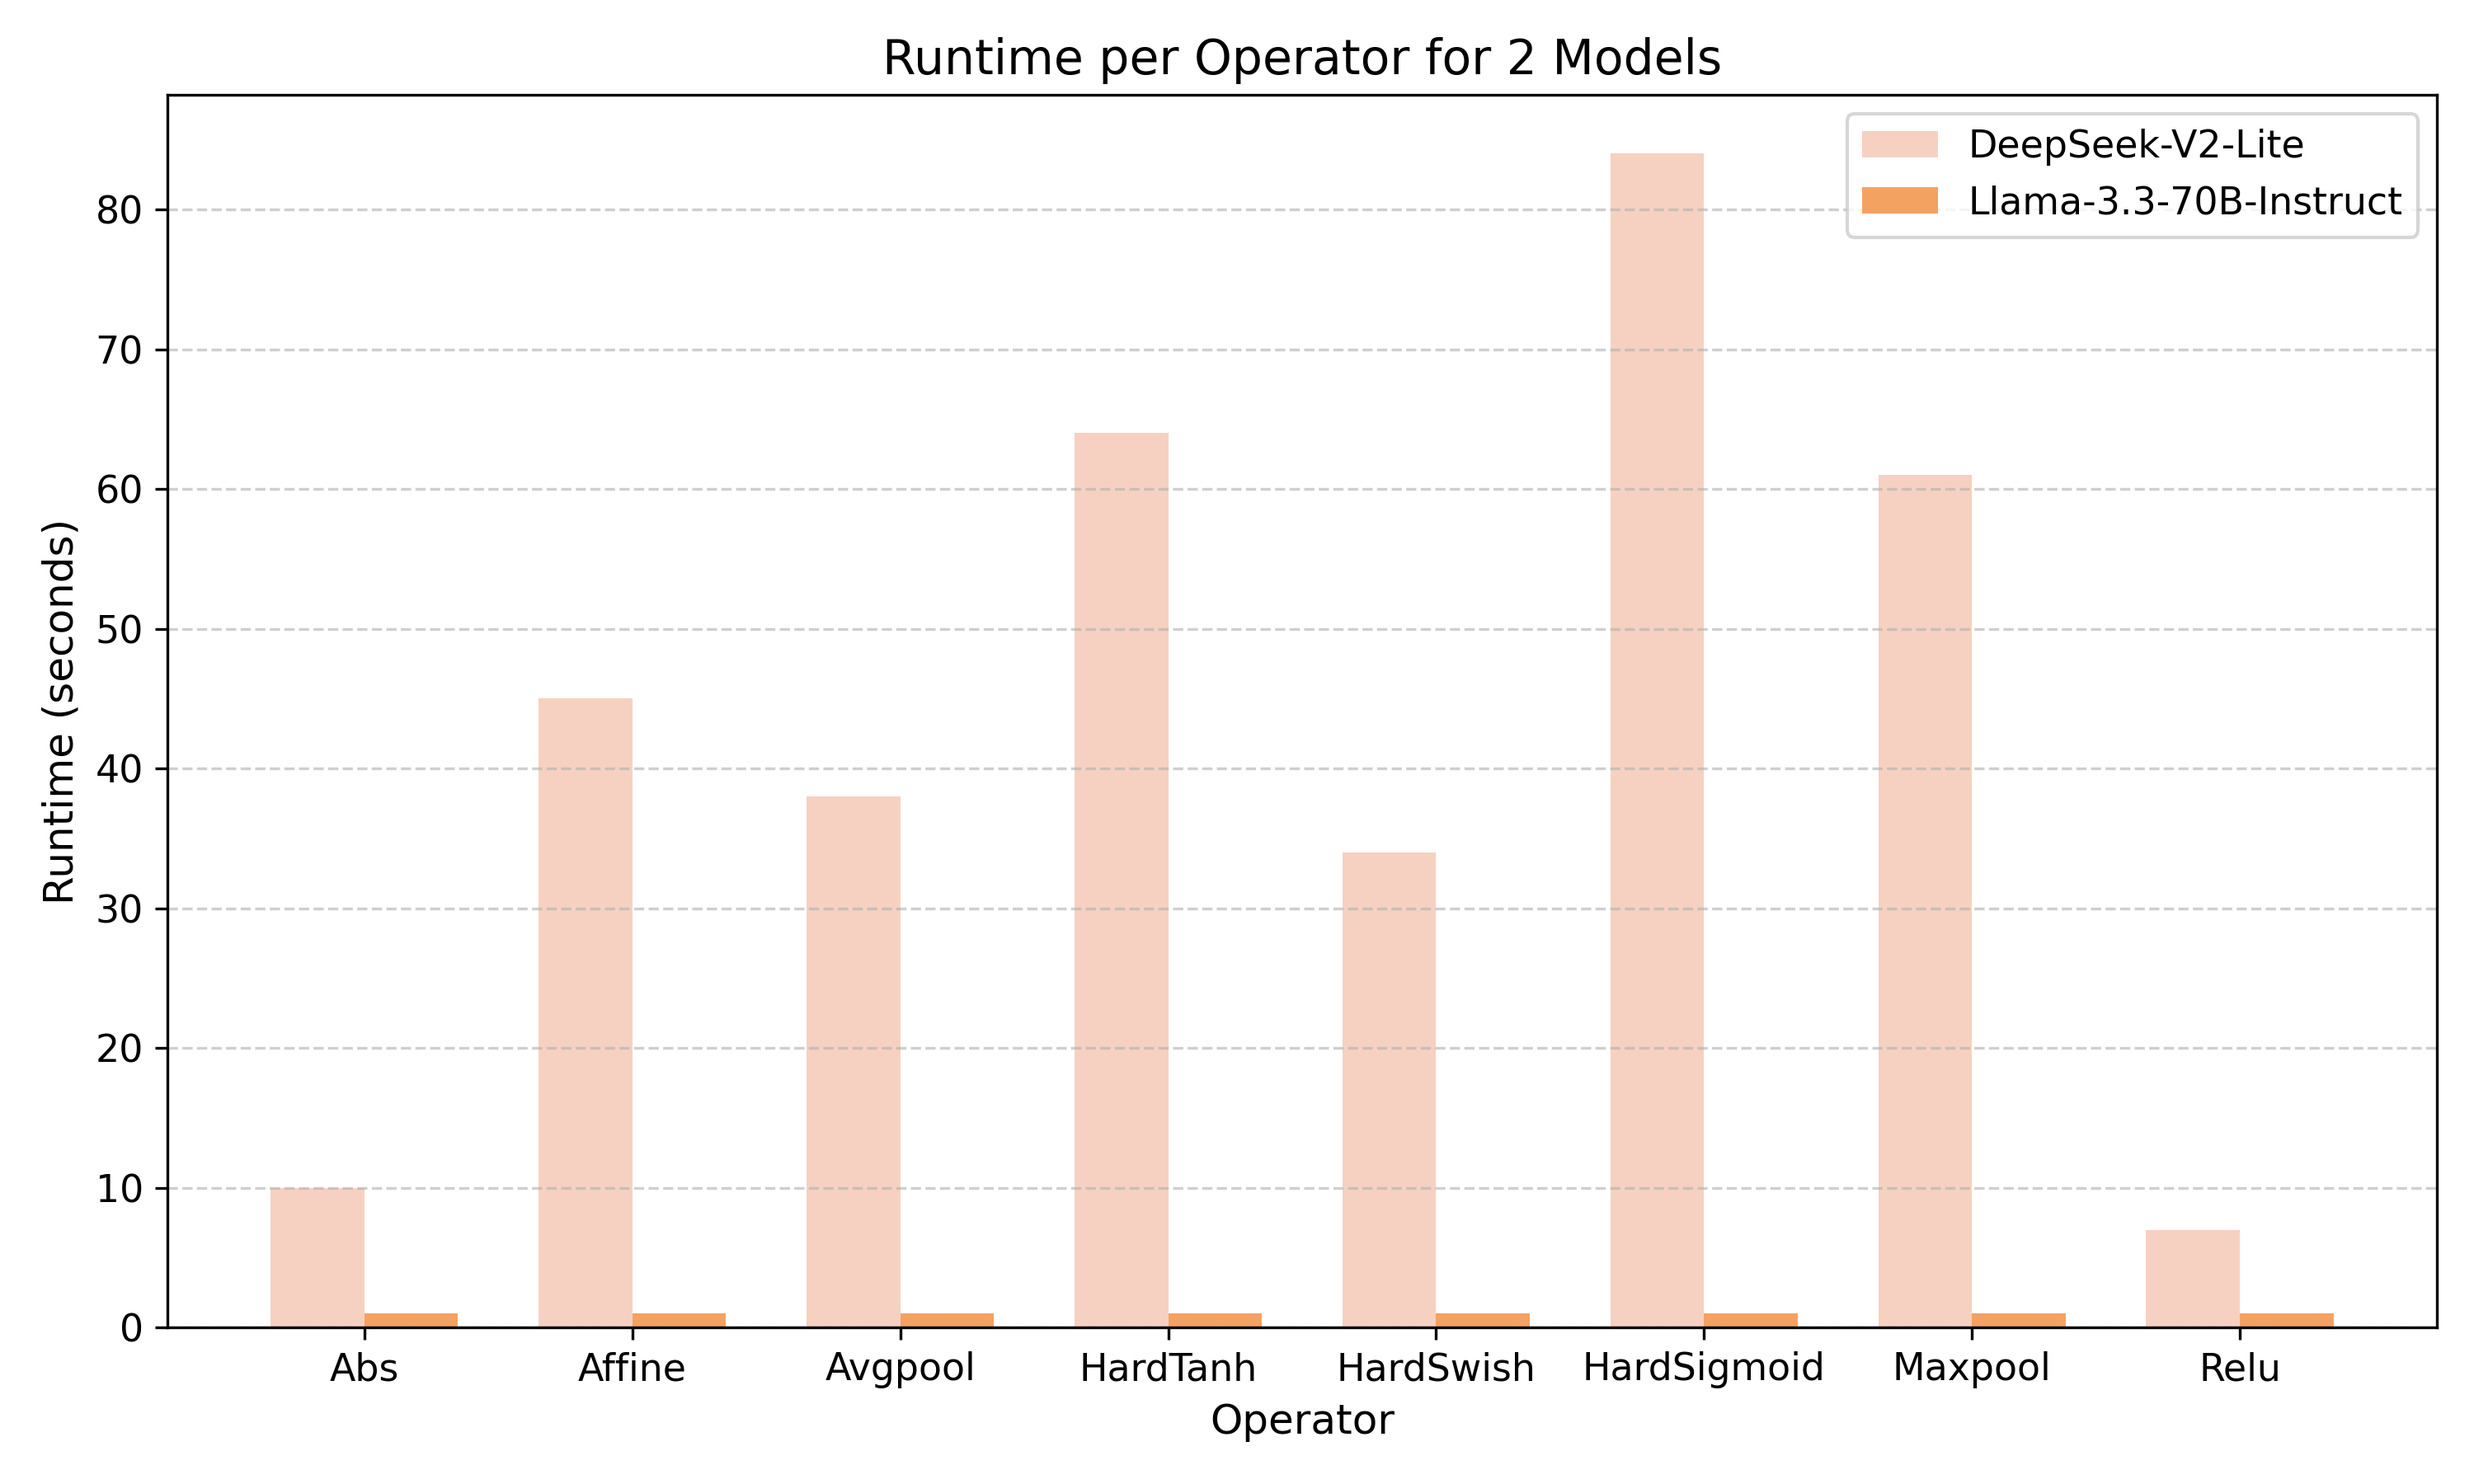
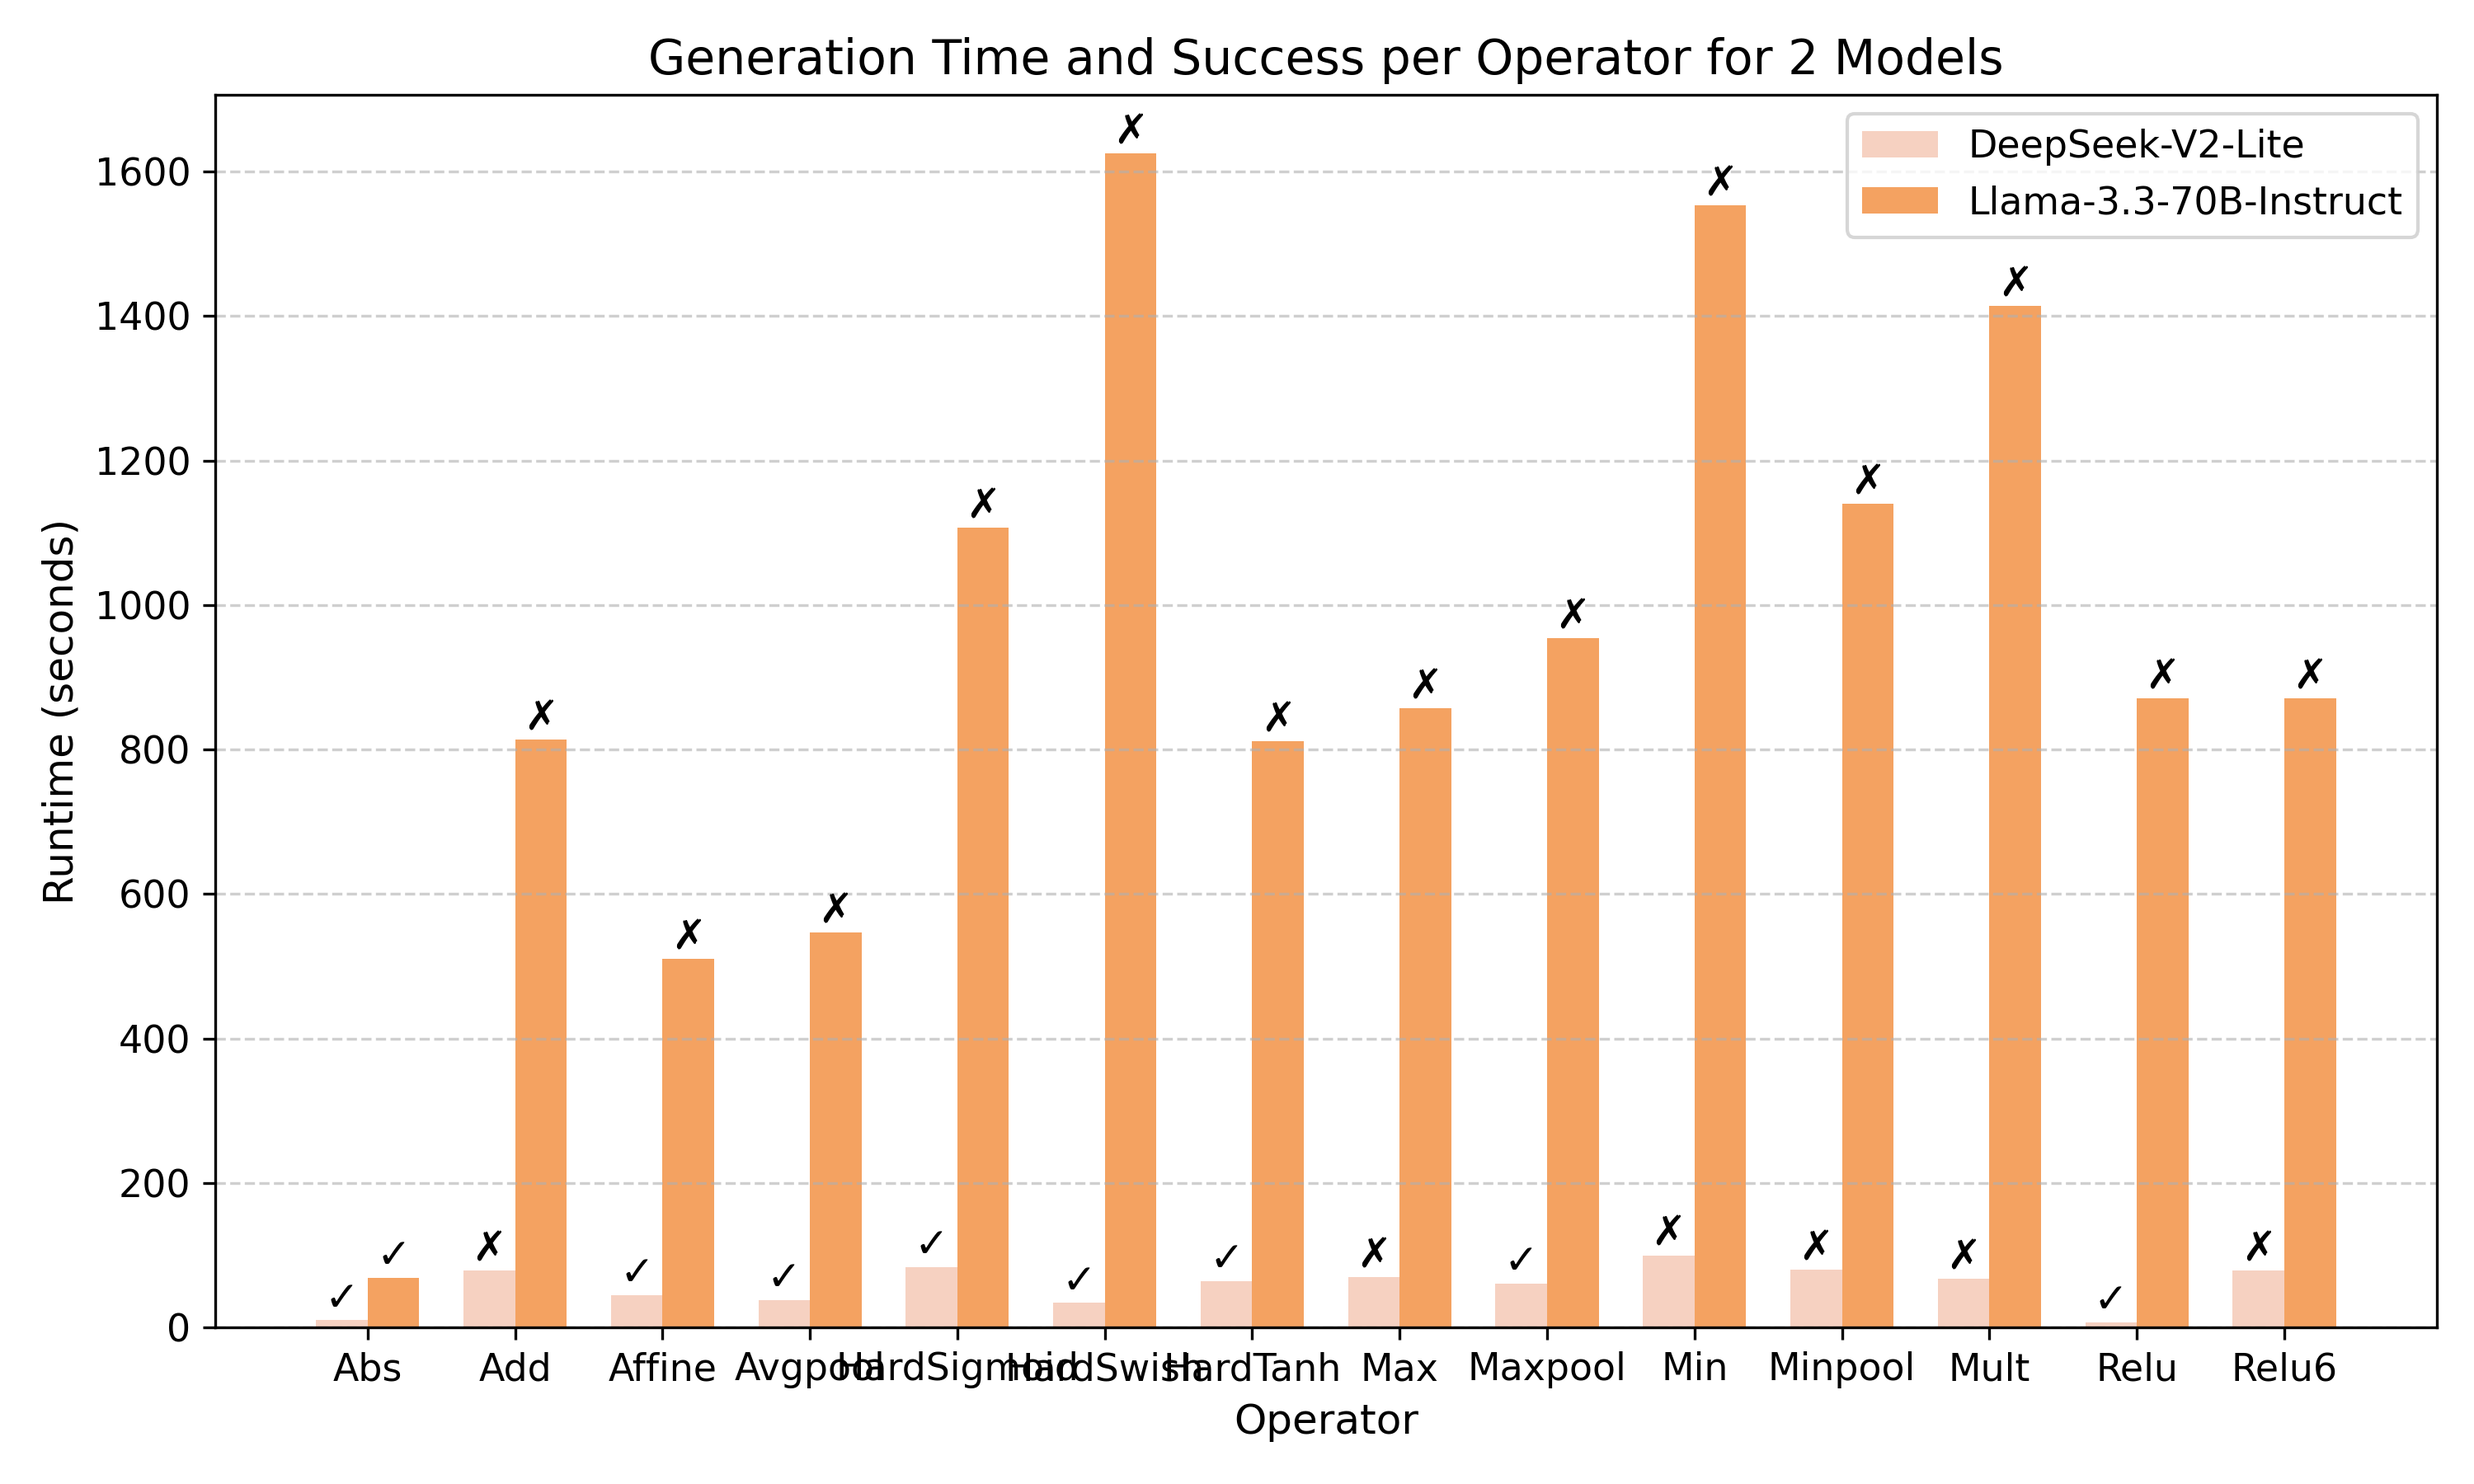
tables

Changed region(s): [[0.031, 0.0622, 0.961, 0.9644], [0.248, 0.0311, 0.713, 0.0622], [0.744, 0.0311, 0.806, 0.0622]]

diff --git a/tables/gen_time.py b/tables/gen_time.py
@@ -7,6 +7,7 @@ models = [
     "Llama-3.3-70B-Instruct",
     ]
 
+'''
 operators = [
     "Abs",
     "Affine",
@@ -22,8 +23,43 @@ operators = [
 # Runtime data (example values for  operators ×  models)
 timings = [
     [10, 45, 38, 64, 34, 84, 61, 7],  # Model A
-    [1,1,1,1,1,1,1,1],  # Model B
+    [69,0,0,0,0,0,0,0],  # Model B
 ]
+'''
+
+operators = [
+    "Abs",
+    "Add",
+    "Affine",
+    "Avgpool",
+    "HardSigmoid",
+    "HardSwish",
+    "HardTanh",
+    "Max",
+    "Maxpool",
+    "Min",
+    "Minpool",
+    "Mult",
+    "Relu",
+    "Relu6",
+]
+
+results = [
+    [  # DeepSeek
+        ["Abs", 10, True], ["Add", 79, False], ["Affine", 45, True], ["Avgpool", 38, True],
+        ["HardSigmoid", 84, True], ["HardSwish", 34, True], ["HardTanh", 64, True],
+        ["Max", 70, False], ["Maxpool", 61, True], ["Min", 100, False], ["Minpool",  80, False],
+        ["Mult", 67, False], ["Relu", 7, True], ["Relu6",  79, False]
+    ],
+    [  # Llama
+        ["Abs", 69, True], ["Add",  814, False], ["Affine", 510, False], ["Avgpool", 547, False],
+        ["HardSigmoid", 1107, False], ["HardSwish", 1625, False], ["HardTanh", 811, False],
+        ["Max", 857, False], ["Maxpool", 954, False], ["Min", 1553, False], ["Minpool", 1140, False],
+        ["Mult", 1414, False], ["Relu", 871, False], ["Relu6", 871, False]
+    ]
+]
+
+
 
 
 colors = ["#f6d1c1", "#f4a261"] # #e76f51 ~ https://colordrop.io/palette/34271
@@ -33,13 +69,36 @@ bar_width = 0.35
 
 plt.figure(figsize=(10, 6))
 
-for i, model_times in enumerate(timings):
-    plt.bar(x + i * bar_width, model_times, width=bar_width, label=models[i], color=colors[i])
+for model_idx, model_data in enumerate(results):
+    times = [item[1] for item in model_data]
+    successes = [item[2] for item in model_data]
+
+    bars = plt.bar(
+        x + model_idx * bar_width,
+        times,
+        width=bar_width,
+        label=models[model_idx],
+        color=colors[model_idx],
+        zorder=1
+    )
+
+    for i, bar in enumerate(bars):
+        height = bar.get_height()
+        mark = "\u2713" if successes[i] else "\u2717"
+        plt.text(
+            bar.get_x() + bar.get_width() / 2,
+            height + 2,
+            mark,
+            ha='center',
+            va='bottom',
+            fontsize=12,
+            zorder=3
+        )
 
 # Labeling
 plt.xlabel("Operator", fontsize=12)
 plt.ylabel("Runtime (seconds)", fontsize=12)
-plt.title(f"Runtime per Operator for {len(models)} Models", fontsize=14)
+plt.title(f"Generation Time and Success per Operator for {len(models)} Models", fontsize=14)
 plt.xticks(x + bar_width / len(models), operators, fontsize=11)
 plt.yticks(fontsize=11)
 plt.legend(fontsize=11)

diff --git a/tables/success.py b/tables/success.py
@@ -1,0 +1,59 @@
+import matplotlib.pyplot as plt
+import pandas as pd
+
+
+model_names = ["DeepSeek-V2-Lite", "Llama-3.3-70B-Instruct", "Gpt-4o"]
+
+
+results = [
+    [  # DeepSeek
+        ["Abs", 10, True], ["Add", 79, False], ["Affine", 45, True], ["Avgpool", 38, True],
+        ["HardSigmoid", 84, True], ["HardSwish", 34, True], ["HardTanh", 64, True],
+        ["Max", 70, False], ["Maxpool", 61, True], ["Min", 100, False], ["Minpool", 80, False],
+        ["Mult", 67, False], ["Relu", 7, True], ["Relu6", 79, False]
+    ],
+    [  # Llama
+        ["Abs", 69, True], ["Add", 814, False], ["Affine", 510, False], ["Avgpool", 547, False],
+        ["HardSigmoid", 1107, False], ["HardSwish", 1625, False], ["HardTanh", 811, False],
+        ["Max", 857, False], ["Maxpool", 954, False], ["Min", 1553, False], ["Minpool", 1140, False],
+        ["Mult", 1414, False], ["Relu", 871, False], ["Relu6", 871, False]
+    ],
+    [  # Gpt-4o
+        ["Abs", 0, True], ["Add", 0, False], ["Affine", 0, True], ["Avgpool", 0, False],
+        ["HardSigmoid", 0, False], ["HardSwish", 0, False], ["HardTanh", 0, False],
+        ["Max", 0, False], ["Maxpool", 0, False], ["Min", 0, False], ["Minpool", 0, False],
+        ["Mult", 0, False], ["Relu", 0, True], ["Relu6", 0, False]
+    ]
+]
+
+
+operator_names = [op[0] for op in results[0]]
+
+
+success_matrix = []
+for i in range(len(operator_names)):
+    row = []
+    for model_result in results:
+        row.append("\u2713" if model_result[i][2] else "")
+    success_matrix.append(row)
+
+
+df = pd.DataFrame(success_matrix, columns=model_names, index=operator_names)
+
+
+fig, ax = plt.subplots(figsize=(9, len(operator_names) * 0.5 + 1))
+ax.axis('off')
+table = ax.table(
+    cellText=df.values,
+    rowLabels=df.index,
+    colLabels=df.columns,
+    loc='center',
+    cellLoc='center',
+    colLoc='center'
+)
+table.scale(1, 1.5)
+plt.title("Operator Generation Success Table", fontsize=14)
+
+
+plt.savefig("pics/success_table.png", dpi=300, bbox_inches='tight')
+plt.show()

diff --git a/tables/soundness_rate.py b/tables/soundness_rate.py
@@ -4,10 +4,10 @@ models = ["DeepSeek-V2-Lite", "Llama-3.3-70B-Instruct", "Gpt-4o"]
 x = list(range(len(models)))
 
 # Generation Time (seconds)
-generation_times = [1325, 163, 0]  
+generation_times = [1325, 130571, 0]  
 
 # Soundness Rate
-soundness_rates = [8/14, 7/14, 4/14]  
+soundness_rates = [8/14, 1/14, 4/14]  
 soundness_rates = [round(float(rate), 2) for rate in soundness_rates]
 
 
